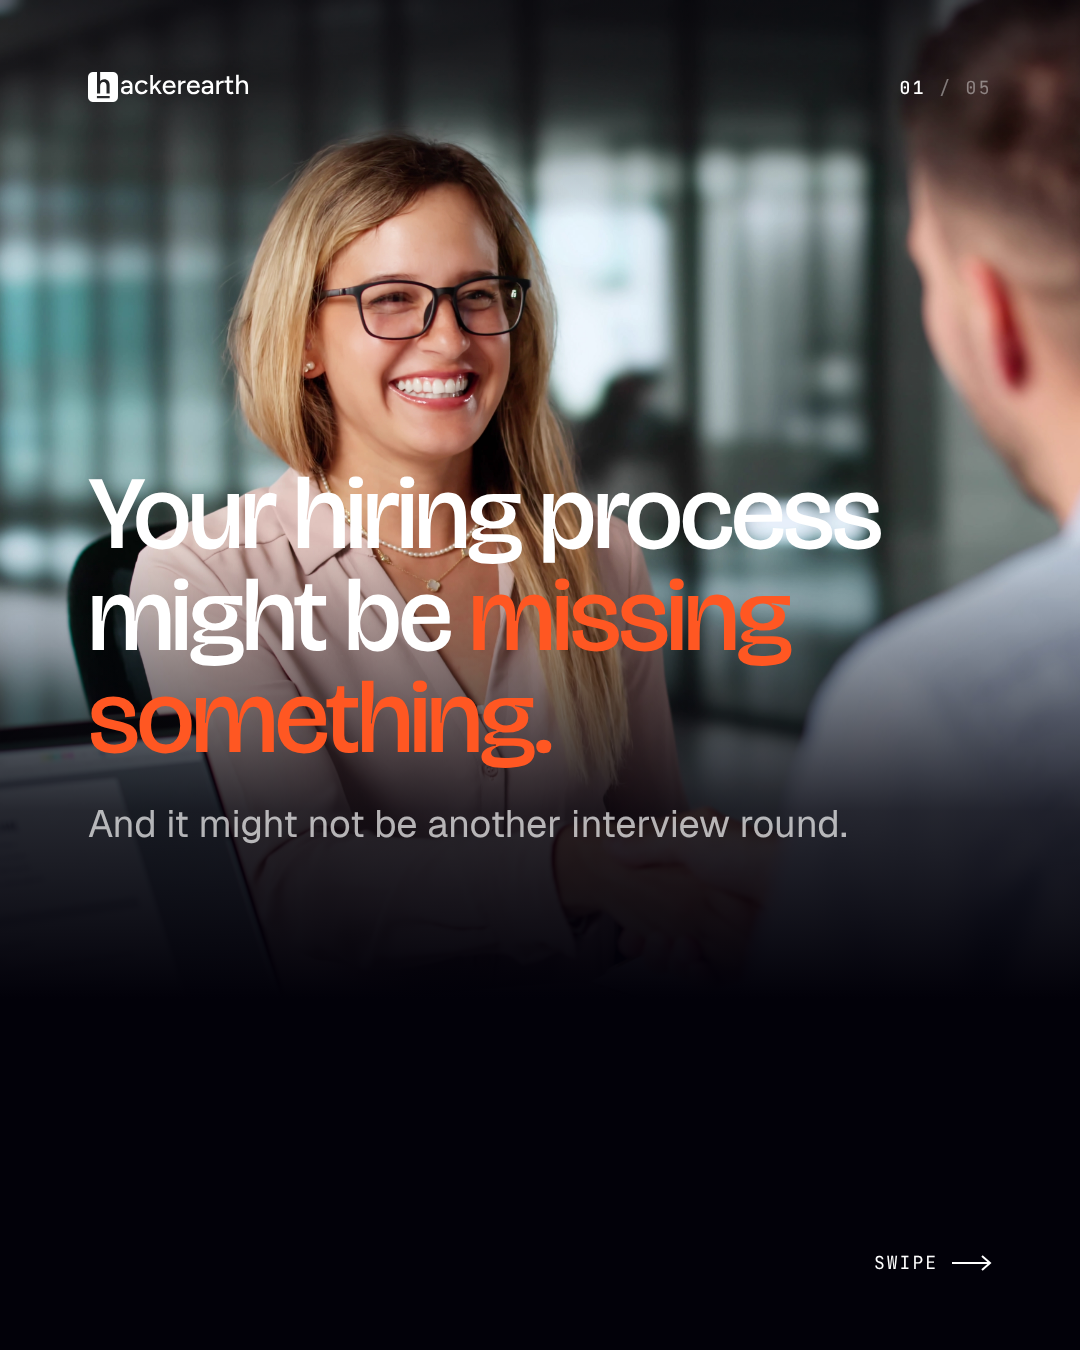
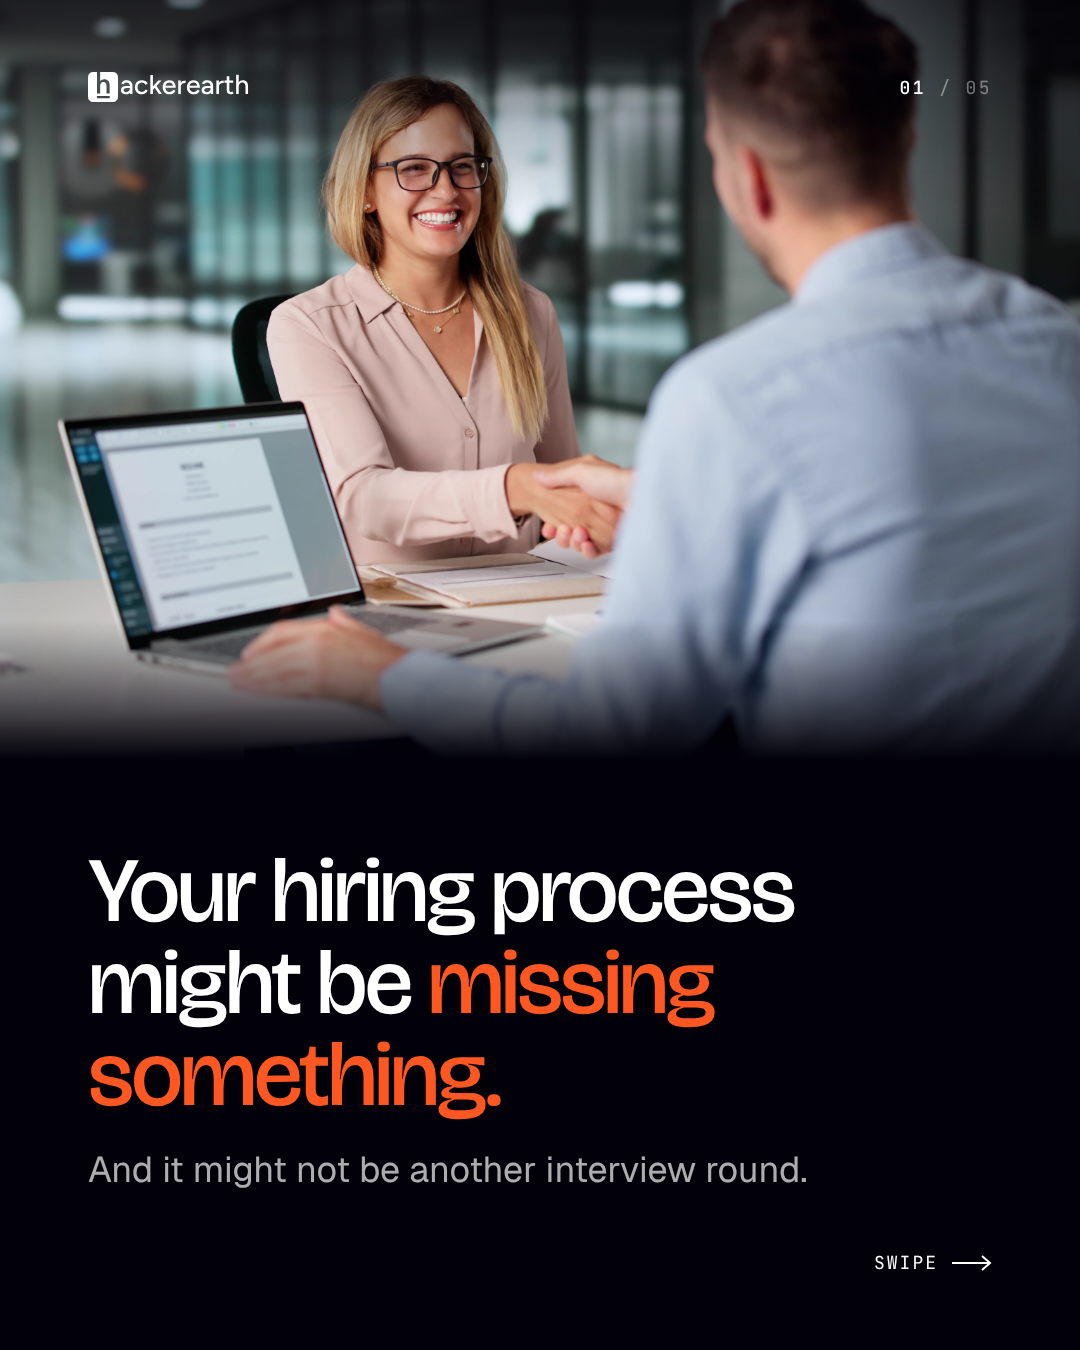
Hiring carousel: cover text moves below the photo
Photo now fills the top band and fades into black; title and subline sit
in the black space beneath it instead of over the image.

Claude-Session: https://claude.ai/code/session_011WvSfd7jShGBWHTo2t24v1

diff --git a/instagram-carousels/hiring-missing-something/carousel.html b/instagram-carousels/hiring-missing-something/carousel.html
@@ -60,12 +60,13 @@
   .ico svg { width: 30px; height: 30px; fill: none; stroke: #fff; stroke-width: 1.6; stroke-linecap: round; stroke-linejoin: round; }
 
   /* ----- Slide 1 · Hook (photo cover) ----- */
-  .photo { position: absolute; z-index: 0; inset: 0; width: 100%; height: 100%; object-fit: cover; object-position: 41% 40%; }
+  .photo { position: absolute; z-index: 0; top: 0; left: 0; width: 100%; height: 760px; object-fit: cover; object-position: 41% 30%; }
   .wash { position: absolute; inset: 0; z-index: 1; background:
     linear-gradient(180deg, rgba(2,1,9,0.55) 0px, rgba(2,1,9,0) 220px),
-    linear-gradient(180deg, rgba(2,1,9,0) 40%, rgba(2,1,9,0.82) 60%, var(--black) 74%); }
-  .s1 h1 { margin-top: auto; font-size: 104px; line-height: 0.98; letter-spacing: -3.2px; }
-  .s1 .lead { margin-top: 28px; font-size: 38px; }
+    linear-gradient(180deg, rgba(2,1,9,0) 620px, var(--black) 760px); }
+  .s1 h1 { margin-top: auto; font-size: 92px; line-height: 1; letter-spacing: -2.8px; }
+  .s1 .lead { margin-top: 24px; font-size: 36px; }
+  .s1 .foot { margin-top: 0; padding-top: 56px; }
 
   /* ----- Slide 2 · Two candidates ----- */
   .pair { display: grid; grid-template-columns: 1fr 1fr; gap: 20px; }
